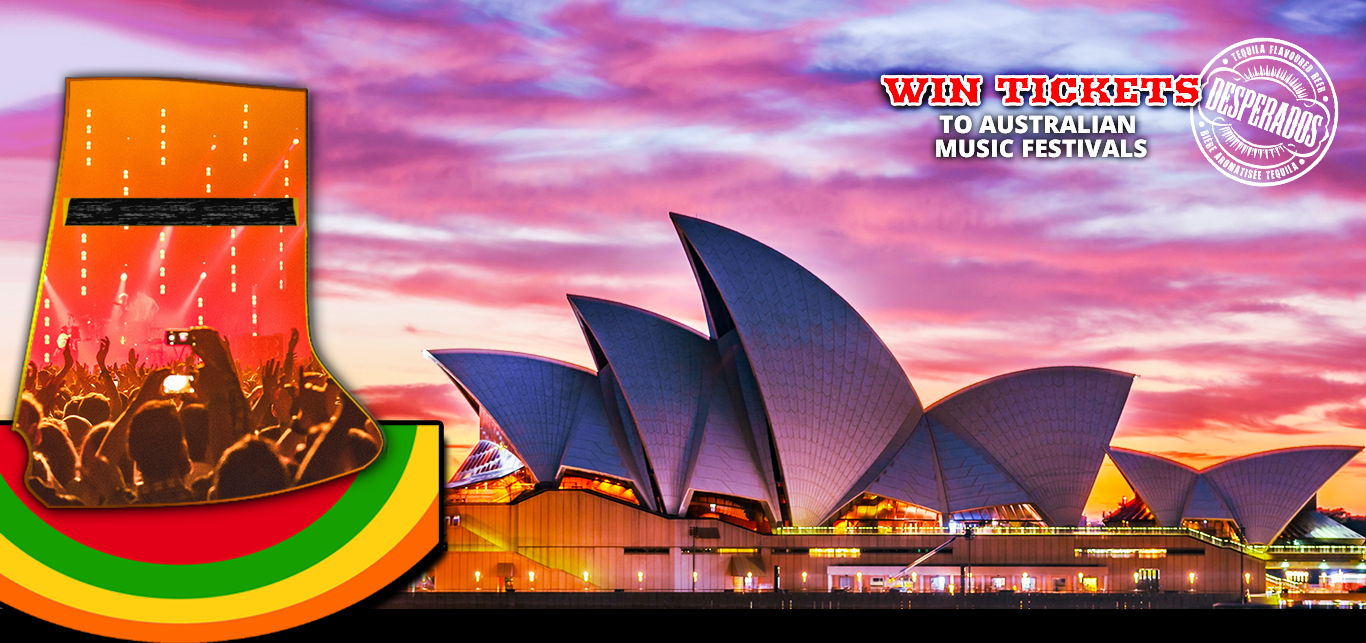
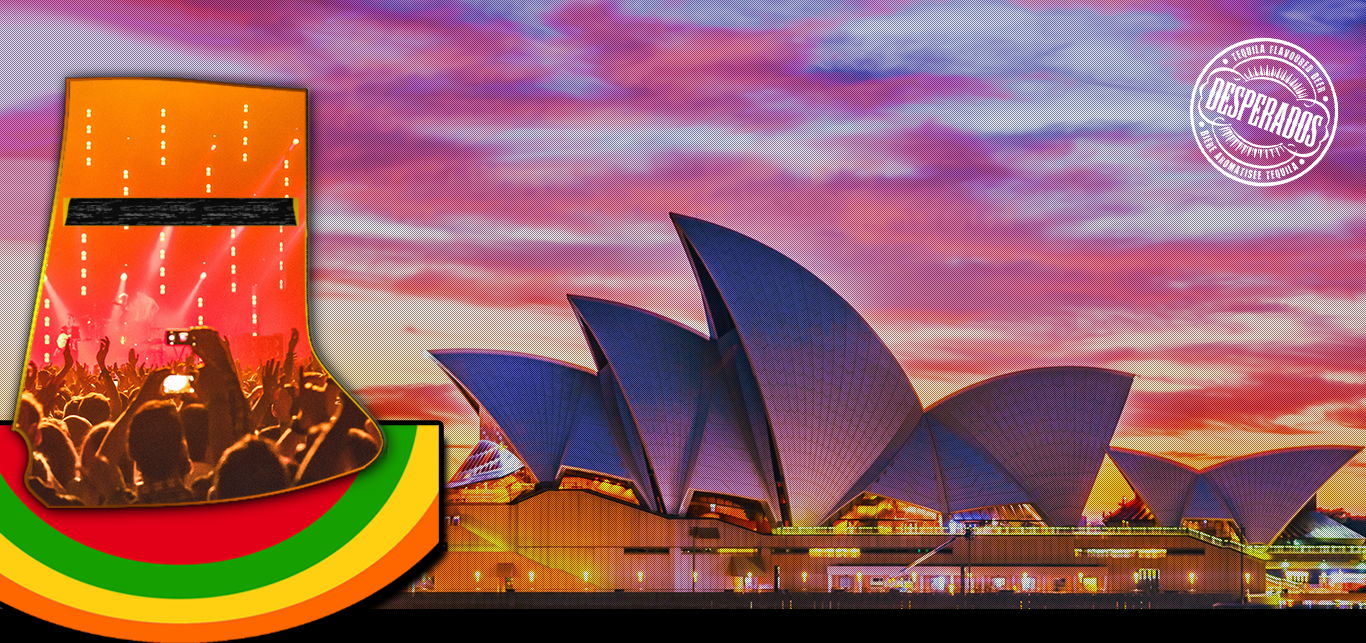
home page update

diff --git a/styles/source/_header.scss b/styles/source/_header.scss
@@ -1,3 +1,4 @@
+$tt-red: #e10017;
 header {
   background-color: #000;
   width: 100%;
@@ -39,3 +40,16 @@ nav {
 a.navbar-brand:hover {
     background-color: transparent;
   }
+
+.win-tix {
+  color: black;
+  -webkit-text-fill-color: $tt-red; /* Will override color (regardless of order) */
+  -webkit-text-stroke-width: 1px;
+  -webkit-text-stroke-color: white;
+  padding-top:50px;
+  margin-top:25px;
+  font-size:4em;
+}
+.card-img-overlay p {
+  font-size: 2.2em;
+}

diff --git a/styles/style.css b/styles/style.css
@@ -33,6 +33,19 @@ nav {
 a.navbar-brand:hover {
   background-color: transparent; }
 
+.win-tix {
+  color: black;
+  -webkit-text-fill-color: #e10017;
+  /* Will override color (regardless of order) */
+  -webkit-text-stroke-width: 1px;
+  -webkit-text-stroke-color: white;
+  padding-top: 50px;
+  margin-top: 25px;
+  font-size: 4em; }
+
+.card-img-overlay p {
+  font-size: 2.2em; }
+
 /** MAIN STYLES **/
 body {
   font-family: "Open Sans", sans-serif;

diff --git a/index.php b/index.php
@@ -5,8 +5,12 @@
 
 <!-- PAGE CONTENT START -->
 <main id="container">
-    <div class="home-header">
-        <img class="img-fluid" src="images/bg_home.png" />
+    <div class="card bg-dark text-white">
+        <img class="card-img img-fluid" src="images/bg_home.png" />
+        <div class="card-img-overlay text-center">
+          <h1 class="card-title win-tix">WIN TICKETS</h1>
+          <p class="card-text">TO AUSTRALIAN MUSIC FESTIVALS</p>
+        </div>
     </div>
     <div class="container-fluid">
         <div class="text-center">
